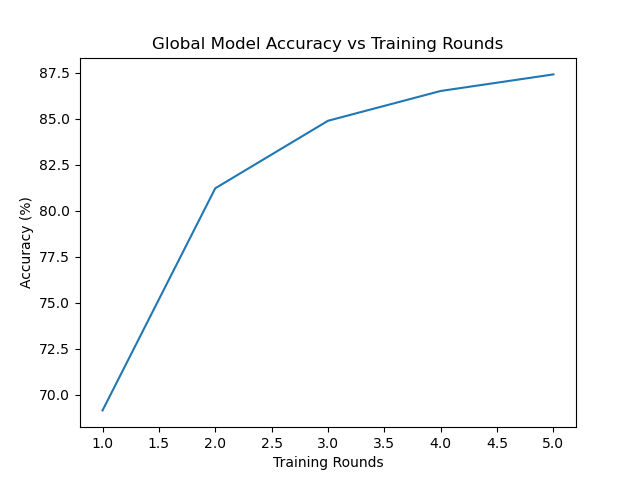
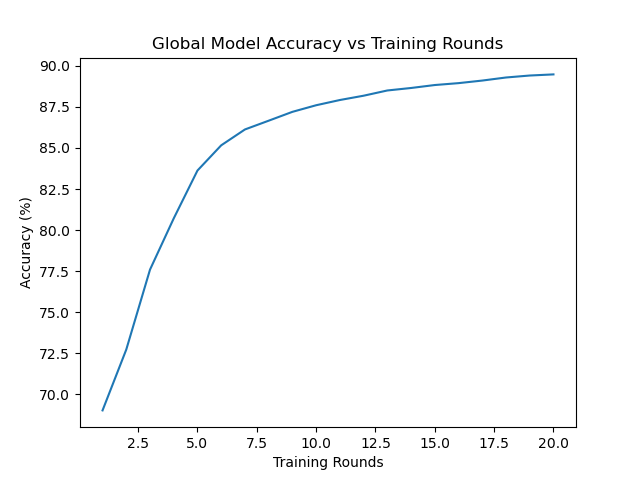
Working DP_FL.py on cpu training, needs more rounds to see convergence. Run on more epsilon values other than (50.0 and 25.0)

diff --git a/DP_FL.py b/DP_FL.py
@@ -88,11 +88,16 @@ class Client:
             return 1.0 / self.epsilon  # Adjust this calculation as needed
         return 0.0
 
+    def log_memory_usage(self):
+        print(f"Allocated memory: {torch.cuda.memory_allocated() / 1024**2:.2f} MB")
+        print(f"Cached memory: {torch.cuda.memory_reserved() / 1024**2:.2f} MB")
+
     def train(self, epochs):
         self.model.train()
         for epoch in range(epochs):
             for batch_idx, (data, target) in enumerate(self.dataloader):
-                #print(f"Training batch {batch_idx} in epoch {epoch}...")
+                print(f"Training batch {batch_idx} in epoch {epoch}...")
+                self.log_memory_usage()  # Log memory usage
                 data, target = data.to(self.device), target.to(self.device)
                 self.optimizer.zero_grad()
                 output = self.model(data)
@@ -148,7 +153,7 @@ class FederatedLearning:
 
     def evaluate_global_model(self):
         self.global_model.eval()
-        test_loader = DataLoader(self.clients[0].dataset, batch_size=64, shuffle=False)
+        test_loader = DataLoader(self.clients[0].dataset, batch_size=32, shuffle=False)
         correct, total = 0, 0
         with torch.no_grad():
             for data, target in test_loader:
@@ -175,14 +180,14 @@ def main():
         print("Invalid dataset choice.")
         return
 
-    num_clients = 5
+    num_clients = 2
     rounds = 20
     epochs = 1
-    epsilon = 50.0
+    epsilon = 10.0
     #num_clients = int(input("Enter number of clients: "))
     #rounds = int(input("Enter number of training rounds: "))
     #epochs = int(input("Enter number of epochs per round: "))
-    # epsilon = input("Enter privacy epsilon value (or 'none' for no privacy): ").strip().lower()
+    #epsilon = input("Enter privacy epsilon value (or 'none' for no privacy): ").strip().lower()
     epsilon = float(epsilon) if epsilon != 'none' else None
 
     # Create clients
@@ -198,10 +203,11 @@ def main():
     os.makedirs('./log', exist_ok=True)
 
     # Plot Accuracy vs Training Rounds
-    plt.plot(range(1, rounds + 1), accuracies)
+    plt.plot(range(1, rounds + 1), accuracies, label=f'ε = {epsilon}')
     plt.xlabel('Training Rounds')
     plt.ylabel('Accuracy (%)')
-    plt.title('Global Model Accuracy vs Training Rounds')
+    plt.title(f'Global Model Accuracy vs Training Rounds (ε = {epsilon})')
+    plt.legend()
     plt.savefig(f'./log/{dataset_choice}_{epsilon}_accuracy_vs_rounds.png')
     plt.show()
 
